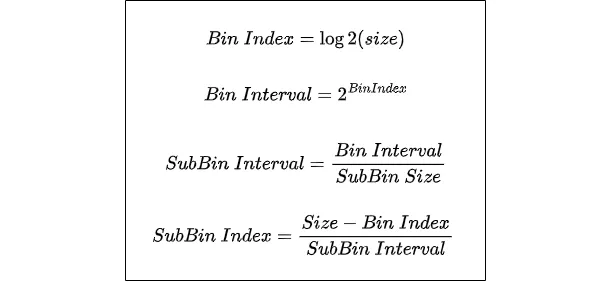
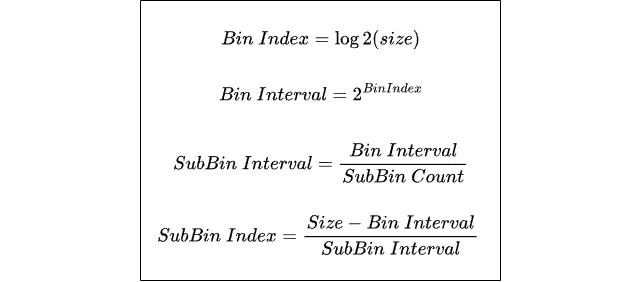
fix mistakes

diff --git a/_posts/2024-04-20-tlsf-allocator.md b/_posts/2024-04-20-tlsf-allocator.md
@@ -26,7 +26,7 @@ To determine the bin sizes, we follow a specific approach. The idea is to arrang
 
 ![Two Level Bin Division](/assets/images/tlsf/TLSF_Basic_b.webp){:style="display:block; margin-left:auto; margin-right:auto"}
 
-For example, free memory blocks with size in the range [2<sup>4</sup>, 2<sup>5</sup>) will be placed inside bin with index 4. To determine the subbin index, we can take the block size, subtract it with 2<sup>bin_idx</sup> and divide it by *bin_interval / subbin_size*.
+For example, free memory blocks with size in the range [2<sup>4</sup>, 2<sup>5</sup>) will be placed inside bin with index 4. To determine the subbin index, we can take the block size, subtract it with 2<sup>bin_idx</sup> and divide it by *bin_interval / subbin_count*.
 
 Given the memory size, we can compute bin and subbin index with:
 
@@ -41,9 +41,10 @@ In the first-level bin, the starting bin intervals are very small (2<sup>0</sup>
 ![TSFL Linear Bin](/assets/images/tlsf/TLSF_Linear_Bin.webp){:style="display:block; margin-left:auto; margin-right:auto"}
 As you can see, the first bin looks different. Now, the first bin has a fixed size 2<sup>7</sup>, and our second bin starts from 2<sup>8</sup> interval. This also implies that we'll need to subtract our bin index with this fixed size in order to compute actual bin index.
 
-![Final Bin Formulas](/assets/images/tlsf/BinningFormula_Extra.webp){:style="display:block; margin-left:auto; margin-right:auto"}
+First, we define our fixed linear interval (Linear), and then we compute our bin and sub-bin index accordingly.
+![Final Bin Formulas](/assets/images/tlsf/Binning_Formula_Final.webp){:style="display:block; margin-left:auto; margin-right:auto"}
 
-With this, we are ready implement our own TLSF allocator.
+This ensures that all blocks in the range [2^0, 2^7) exist in bin 0, and the range [2^7, ...) starts from bin 1. With these adjustments, we are ready to implement our own TLSF allocator.
 
 ## Implementation Details
 
@@ -60,19 +61,23 @@ const min_alloc_size: u32 = 1 << linear;
 We need to map allocation and memory block sizes to proper bin and subbin indices. Two types of mapping are required here: *map up* and *map down*. Whenever we what to perform a search for free blocks in order to allocate memory, we would need to *map up*, which is achieved by rounding up the size to the next subbin. This is necessary because we need to look for a subbin which contains blocks that can at least fit the requested size.
 
 ```zig
-fn binmap_up(size: vk.DeviceSize) BinMap {
-    const bin_idx: u32 = log2(size | min_alloc_size); // | makes sure size >= min_alloc
+fn binmap_up(size: vk.DeviceSize) BlockMap {
+    const bin_idx: u32 = bit_scan_msb(size | min_alloc_size);
     const log2_subbin_size: u6 = @intCast(bin_idx - sub_bin);
-    const next_subbin_offset = (@as(u64, 1) << (log2_subbin_size)) - 1; // subbin_size - 1
+    const next_subbin_offset = (@as(u64, 1) << (log2_subbin_size)) - 1; // block_size - 1
     const rounded = size +% next_subbin_offset;
-    // rounded_size / block_size
-    const sub_bin_idx: u32 = @intCast(((rounded) >> log2_subbin_size) & (sub_bin_count - 1)); 
-    const adjusted_bin_idx = bin_idx - linear;
+    const sub_bin_idx = rounded >> log2_subbin_size; // rounded_size / block_size
+    
+    const adjusted_bin_idx: u32 = @intCast((bin_idx - linear) + (sub_bin_idx >> sub_bin)); // adjust bin_idx with linear
+    const adjusted_sub_bin_idx: u32 = @intCast(sub_bin_idx & (sub_bin_count - 1)); // sub_bin_idx % sub_bin_count
     const rounded_size = (rounded) & ~next_subbin_offset;
-
+    
+    std.debug.assert(adjusted_bin_idx < bin_count);
+    std.debug.assert(adjusted_sub_bin_idx < sub_bin_count);
+    
     return .{
         .bin_idx = adjusted_bin_idx,
-        .sub_bin_idx = sub_bin_idx,
+        .sub_bin_idx = adjusted_sub_bin_idx,
         .rounded_size = rounded_size,
     };
 }
@@ -80,17 +85,21 @@ fn binmap_up(size: vk.DeviceSize) BinMap {
 
 And for other operations like inserting new free block, we'll map down.
 ```zig
-fn binmap_down(size: vk.DeviceSize) BinMap {
-    const bin_idx: u32 = log2(size | min_alloc_size);
+fn binmap_down(size: vk.DeviceSize) BlockMap {
+    const bin_idx: u32 = bit_scan_msb(size | min_alloc_size);
     const log2_subbin_size: u6 = @intCast(bin_idx - sub_bin);
-    const sub_bin_idx: u32 = @intCast((size >> log2_subbin_size) & (sub_bin_count - 1)); // size / block_size
+    const sub_bin_idx = size >> log2_subbin_size; // size / block_size
 
-    const adjusted_bin_idx = bin_idx - linear;
+    const adjusted_bin_idx: u32 = @intCast((bin_idx - linear) + (sub_bin_idx >> sub_bin));
+    const adjusted_sub_bin_idx: u32 = @intCast(sub_bin_idx & (sub_bin_count - 1));
     const rounded_size = size;
+
+    std.debug.assert(adjusted_bin_idx < bin_count);
+    std.debug.assert(adjusted_sub_bin_idx < sub_bin_count);
 
     return .{
         .bin_idx = adjusted_bin_idx,
-        .sub_bin_idx = sub_bin_idx,
+        .sub_bin_idx = adjusted_sub_bin_idx,
         .rounded_size = rounded_size,
     };
 }
